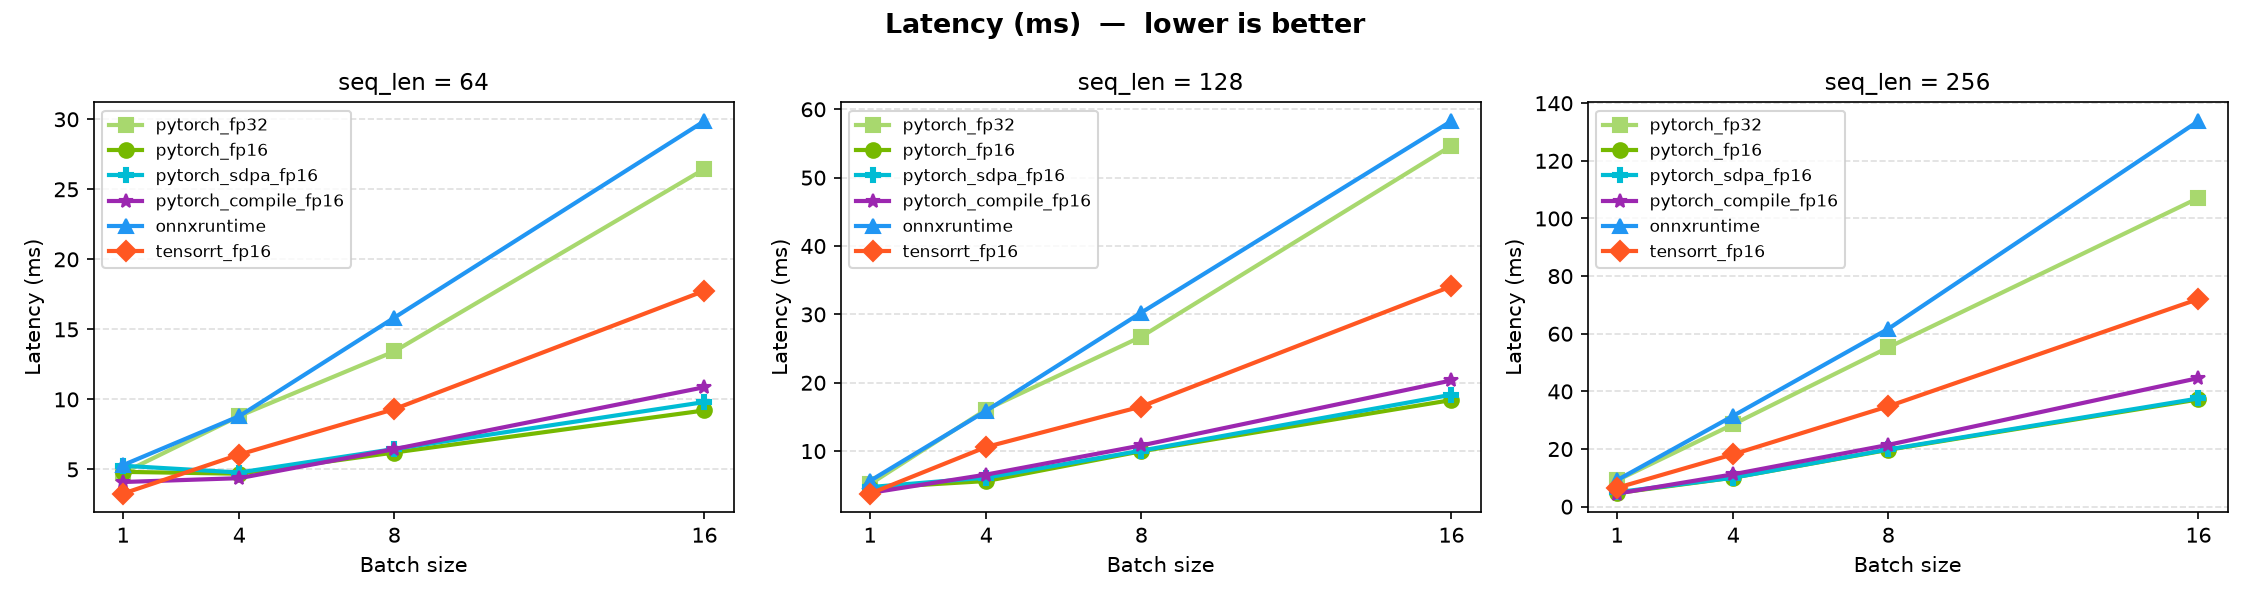
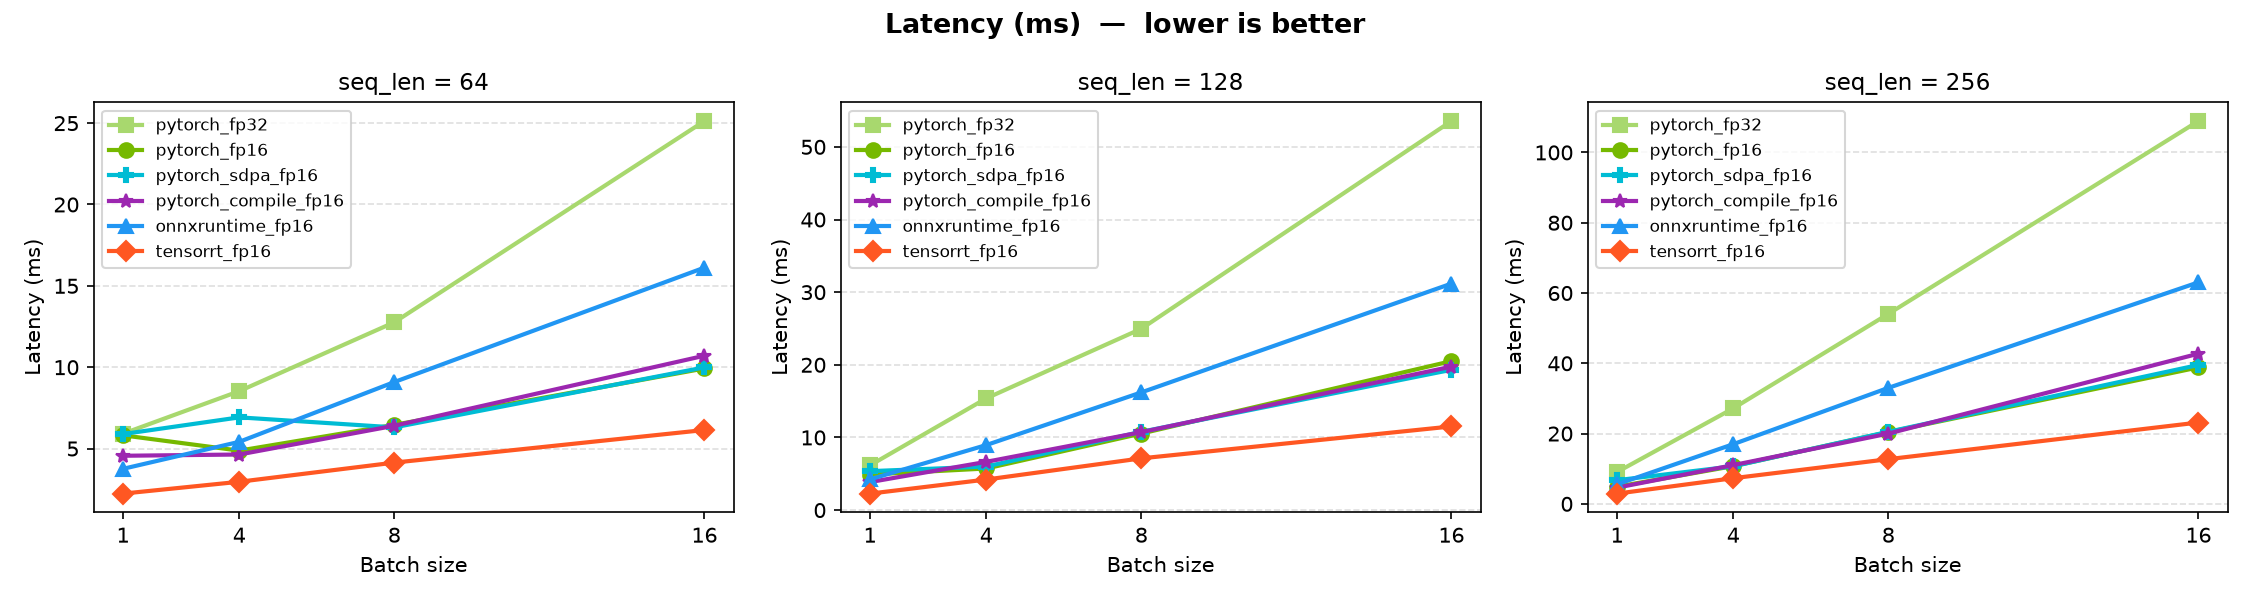
Project 1 - Bugfix - ONNX and TRT were FP32; changed to FP16

diff --git a/project-1-llm-inference-optimization/src/run_benchmark.py b/project-1-llm-inference-optimization/src/run_benchmark.py
@@ -60,25 +60,27 @@ def main() -> None:
     MODELS_DIR.mkdir(parents=True, exist_ok=True)
     RESULTS_DIR.mkdir(parents=True, exist_ok=True)
 
-    onnx_path   = MODELS_DIR / "gpt2.onnx"
-    trt_path    = MODELS_DIR / ("gpt2_fp16.trt" if args.fp16 else "gpt2_fp32.trt")
+    onnx_fp32_path = MODELS_DIR / "gpt2_fp32.onnx"
+    onnx_fp16_path = MODELS_DIR / "gpt2_fp16.onnx"
+    trt_path       = MODELS_DIR / ("gpt2_fp16.trt" if args.fp16 else "gpt2_fp32.trt")
 
     # ── Model export / engine build ──────────────────────────────────────────
-    needs_onnx = "onnx" in args.backends or "tensorrt" in args.backends
-    if needs_onnx and (args.export or not onnx_path.exists()):
-        print("\n=== Exporting GPT-2 → ONNX ===")
-        from export_onnx import export
-        export(str(onnx_path))
+    if "onnx" in args.backends or "tensorrt" in args.backends:
+        if args.export or not onnx_fp16_path.exists():
+            print("\n=== Exporting GPT-2 → ONNX (FP16) ===")
+            from export_onnx import export
+            export(str(onnx_fp16_path), fp16=True)
 
-    if "tensorrt" in args.backends and (args.export or not trt_path.exists()):
-        print("\n=== Building TensorRT engine ===")
-        from build_trt import build
-        build(
-            str(onnx_path), str(trt_path),
-            fp16=args.fp16,
-            batch_sizes=args.batch_sizes,
-            seq_lens=args.seq_lens,
-        )
+    if "tensorrt" in args.backends:
+        if args.export or not trt_path.exists():
+            print("\n=== Building TensorRT engine ===")
+            from build_trt import build
+            build(
+                str(onnx_fp16_path), str(trt_path),
+                fp16=args.fp16,
+                batch_sizes=args.batch_sizes,
+                seq_lens=args.seq_lens,
+            )
 
     # ── Benchmarks ───────────────────────────────────────────────────────────
     all_results: list[dict] = []
@@ -115,7 +117,7 @@ def main() -> None:
         print("\n=== ONNX Runtime Benchmark ===")
         from bench_onnx import benchmark
         all_results.extend(
-            benchmark(str(onnx_path), args.batch_sizes, args.seq_lens, args.warmup, args.iterations)
+            benchmark(str(onnx_fp16_path), args.batch_sizes, args.seq_lens, args.warmup, args.iterations)
         )
 
     if "tensorrt" in args.backends:

diff --git a/project-1-llm-inference-optimization/src/build_trt.py b/project-1-llm-inference-optimization/src/build_trt.py
@@ -30,7 +30,10 @@ def build(
     seq_lens = seq_lens or [64, 128, 256]
 
     if onnx_path is None:
-        onnx_path = str(MODELS_DIR / "gpt2.onnx")
+        # Use the ONNX file that matches the requested precision so TRT reads
+        # native-precision weights rather than converting at build time.
+        onnx_tag = "fp16" if fp16 else "fp32"
+        onnx_path = str(MODELS_DIR / f"gpt2_{onnx_tag}.onnx")
     if engine_path is None:
         tag = "fp16" if fp16 else "fp32"
         engine_path = str(MODELS_DIR / f"gpt2_{tag}.trt")
@@ -64,11 +67,6 @@ def build(
         raise RuntimeError("ONNX parse failed:\n" + "\n".join(errors))
 
     config.set_memory_pool_limit(trt.MemoryPoolType.WORKSPACE, workspace_gb << 30)
-
-    if fp16:
-        # BuilderFlag.FP16 was removed in TRT 10.x; precision is now chosen
-        # automatically. On Ada/Ampere hardware TRT selects FP16 by default.
-        print("FP16 requested — TRT 10.x selects precision automatically on capable hardware.")
 
     profile = builder.create_optimization_profile()
     for tensor_name in ("input_ids", "attention_mask"):

diff --git a/project-1-llm-inference-optimization/src/export_onnx.py b/project-1-llm-inference-optimization/src/export_onnx.py
@@ -27,14 +27,17 @@ class _GPT2Wrapper(torch.nn.Module):
         ).logits
 
 
-def export(output_path: str | None = None, opset: int = 18) -> str:
+def export(output_path: str | None = None, opset: int = 18, fp16: bool = False) -> str:
     """Download GPT-2, wrap it, and export to ONNX. Returns the saved file path."""
     if output_path is None:
         MODELS_DIR.mkdir(parents=True, exist_ok=True)
-        output_path = str(MODELS_DIR / "gpt2.onnx")
+        tag = "fp16" if fp16 else "fp32"
+        output_path = str(MODELS_DIR / f"gpt2_{tag}.onnx")
 
-    print("Loading GPT-2 (gpt2) from HuggingFace …")
+    print(f"Loading GPT-2 (gpt2) from HuggingFace [{'FP16' if fp16 else 'FP32'}] …")
     base = GPT2LMHeadModel.from_pretrained("gpt2")
+    if fp16:
+        base = base.half()
     model = _GPT2Wrapper(base).cuda().eval()
 
     dummy_ids = torch.randint(0, 50257, (1, 128), dtype=torch.long, device="cuda")

diff --git a/project-1-llm-inference-optimization/src/plot_results.py b/project-1-llm-inference-optimization/src/plot_results.py
@@ -14,7 +14,8 @@ _BACKEND_COLORS = {
     "pytorch_sdpa_fp32":    "#80deea",
     "pytorch_compile_fp16": "#9c27b0",   # purple
     "pytorch_compile_fp32": "#ce93d8",
-    "onnxruntime":          "#2196f3",   # blue
+    "onnxruntime_fp16":     "#2196f3",   # blue
+    "onnxruntime_fp32":     "#90caf9",
     "tensorrt_fp16":        "#ff5722",   # orange-red
 }
 _MARKERS = {
@@ -24,7 +25,8 @@ _MARKERS = {
     "pytorch_sdpa_fp32":    "p",
     "pytorch_compile_fp16": "*",
     "pytorch_compile_fp32": "h",
-    "onnxruntime":          "^",
+    "onnxruntime_fp16":     "^",
+    "onnxruntime_fp32":     "v",
     "tensorrt_fp16":        "D",
 }
 

diff --git a/project-1-llm-inference-optimization/src/bench_onnx.py b/project-1-llm-inference-optimization/src/bench_onnx.py
@@ -85,7 +85,7 @@ def benchmark(
             throughput = (bs * seq_len) / (mean_ms / 1_000)
 
             row = {
-                "backend": "onnxruntime",
+                "backend": "onnxruntime_fp16",
                 "batch_size": bs,
                 "seq_len": seq_len,
                 "latency_ms_mean": round(mean_ms, 3),

diff --git a/project-1-llm-inference-optimization/ISSUES.md b/project-1-llm-inference-optimization/ISSUES.md
@@ -370,6 +370,34 @@ parser.parse_from_file(onnx_path)
 
 ---
 
+## Issue 19 — TRT engine was built from FP32 ONNX; `BuilderFlag.FP16` and per-layer precision APIs removed in TRT 11.x
+
+**Symptom**
+`gpt2_fp16.trt` weighed 623 MB — larger than the raw FP32 ONNX weights (474 MB). A genuine FP16 engine would be smaller, not larger.
+
+**Root cause**
+Two compounding problems:
+1. `export_onnx.py` exported the model in FP32 (no `.half()` call). TRT therefore read FP32 weights and built a FP32 engine regardless of what precision flags were set.
+2. `BuilderFlag.FP16` does not exist in TRT 11.1.0.106. Per-layer precision control via `ILayer.precision` and `ILayer.set_output_type` is also absent from this version. There is no way to instruct TRT to downcast weights at engine-build time.
+
+Confirmed by inspecting available `BuilderFlag` entries:
+```python
+[f for f in dir(trt.BuilderFlag) if not f.startswith('_')]
+# No 'FP16', 'BF16', 'FP8', 'PREFER_PRECISION_CONSTRAINTS', etc.
+```
+
+**Fix**
+Export a separate FP16 ONNX by calling `.half()` on the model before export, and point the TRT builder at that file. TRT then reads native FP16 weights and builds a true FP16 engine with no precision flags needed.
+
+Changes:
+- `export_onnx.py`: added `fp16=False` parameter; when `True` calls `base.half()` and saves to `gpt2_fp16.onnx`.
+- `build_trt.py`: reads `gpt2_fp16.onnx` (not `gpt2.onnx`) when `fp16=True`.
+- `run_benchmark.py`: exports both `gpt2_fp32.onnx` (for ORT) and `gpt2_fp16.onnx` (for TRT) on `--export`.
+
+The stale `gpt2.onnx` / `gpt2_fp16.trt` must be deleted and `--export` re-run.
+
+---
+
 ## Issue 17 — `torch.compile` crashes: Triton not available on Windows
 
 **Error**

diff --git a/project-1-llm-inference-optimization/README.md b/project-1-llm-inference-optimization/README.md
@@ -37,8 +37,8 @@ Same as the baseline but loaded with `attn_implementation="sdpa"`, which routes 
 ### PyTorch FP16 + torch.compile
 The FP16 model wrapped with `torch.compile(model, backend="cudagraphs")`. TorchDynamo traces the computation graph and captures it as a CUDA graph, which is replayed on every subsequent call — eliminating per-kernel Python launch overhead so the GPU runs a single pre-recorded stream with minimal CPU involvement. The `cudagraphs` backend is used instead of the default `inductor` because Triton is not available on Windows. Graph capture happens on the first forward call for each unique input shape and is absorbed by the warmup loop.
 
-### ONNX Runtime (CUDAExecutionProvider)
-The model is exported to ONNX opset 18 using PyTorch's dynamo-based exporter, then loaded into an ONNX Runtime `InferenceSession` with `CUDAExecutionProvider`. ORT applies its own graph optimizations (op fusion, constant folding) independently of TensorRT.
+### ONNX Runtime FP16 (CUDAExecutionProvider)
+The model is exported to ONNX opset 18 in FP16 (weights cast via `model.half()` before export), then loaded into an ONNX Runtime `InferenceSession` with `CUDAExecutionProvider`. ORT applies its own graph optimizations (op fusion, constant folding) independently of TensorRT.
 
 ### TensorRT FP16
 The ONNX model is compiled into a TensorRT engine at startup using `build_trt.py`. The engine is built with an optimization profile covering the full benchmark sweep (min/opt/max shapes), allowing TRT to tune kernels for the expected input range. At inference time, device buffers are allocated as PyTorch CUDA tensors and their raw pointers are passed directly to the TRT execution context — no pycuda or cuda-python dependency needed.

diff --git a/README.md b/README.md
@@ -45,7 +45,7 @@ Benchmark GPT-2 (124M) inference across four backends and measure the real-world
 | PyTorch | FP16 | Tensor core path |
 | PyTorch + SDPA | FP16 | Flash Attention via `attn_implementation="sdpa"` |
 | PyTorch + torch.compile | FP16 | CUDA graphs via `backend="cudagraphs"` (Triton-free) |
-| ONNX Runtime | FP16 | CUDAExecutionProvider |
+| ONNX Runtime | FP16 | CUDAExecutionProvider, FP16 ONNX weights |
 | TensorRT | FP16 | Compiled engine, dynamic batch |
 
 **Metrics collected:** latency (mean / p50 / p95 / p99), throughput (tokens/s), peak GPU memory